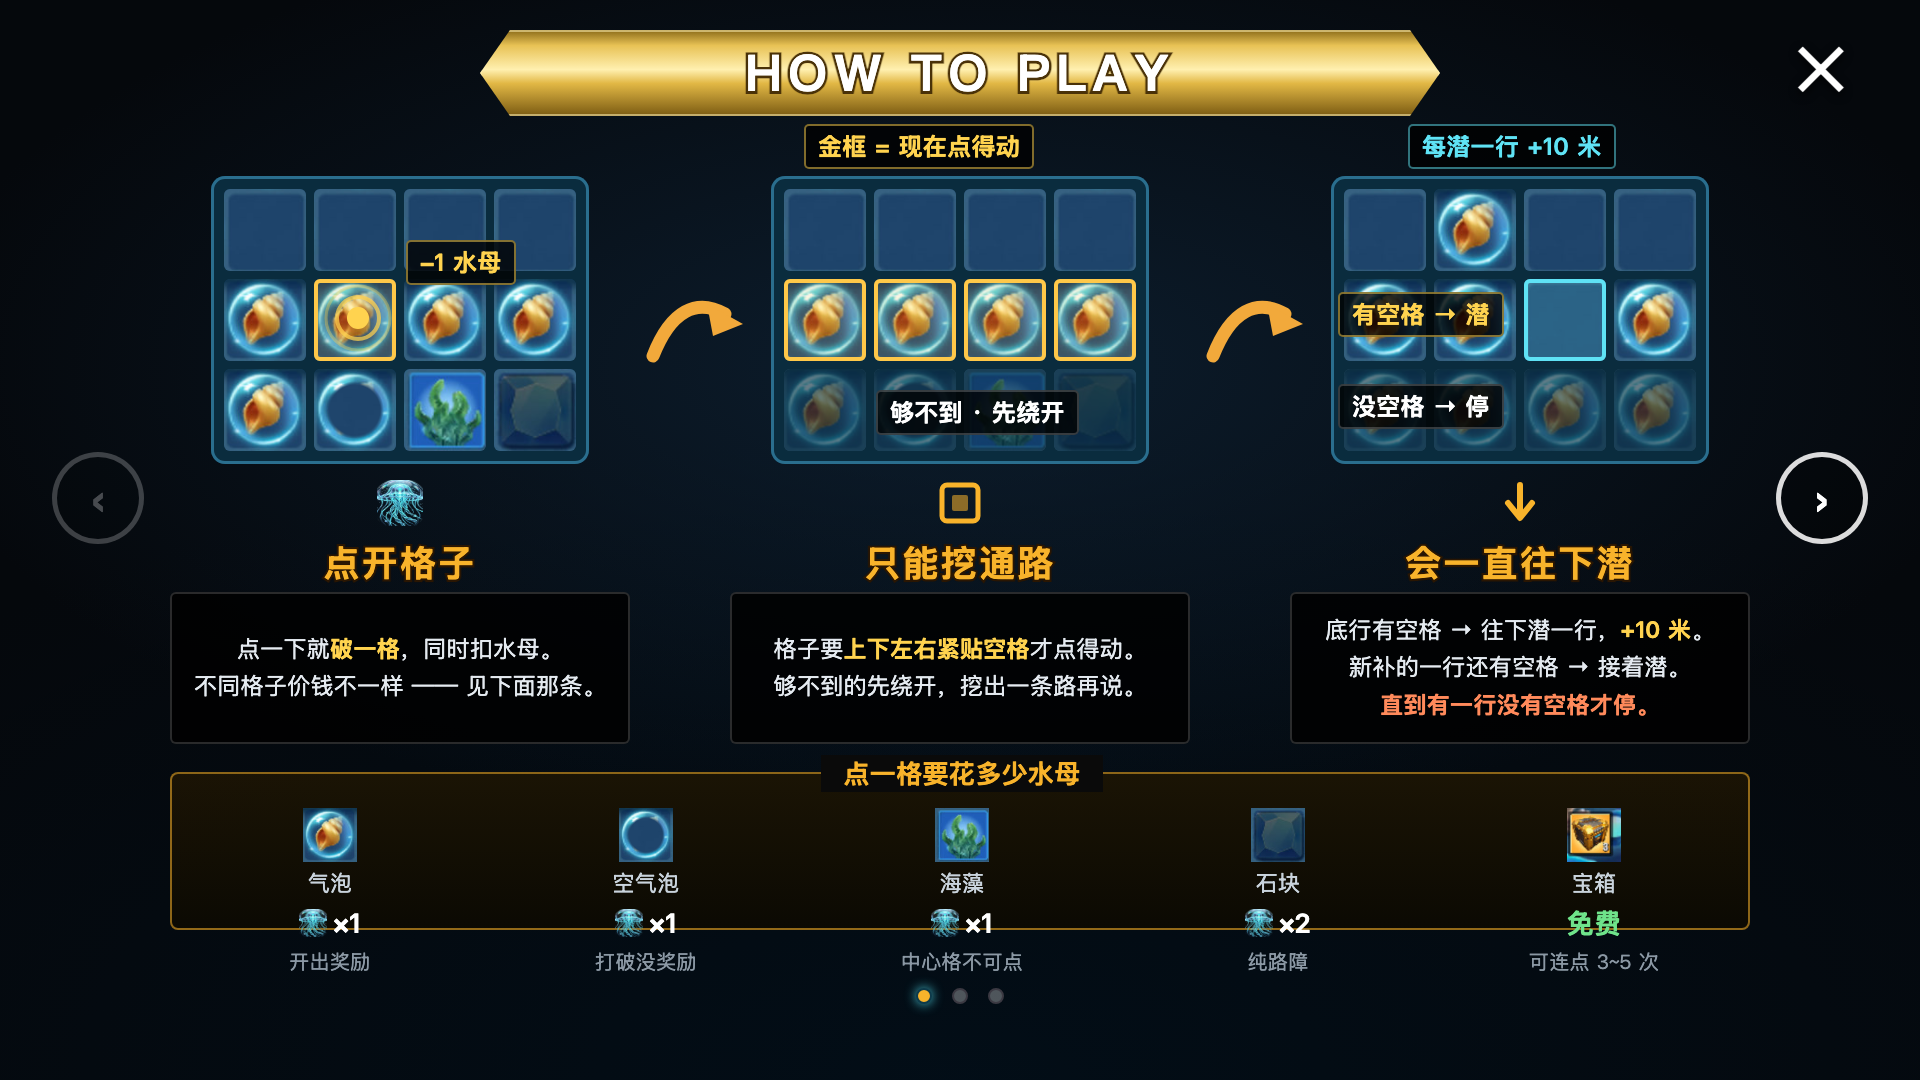
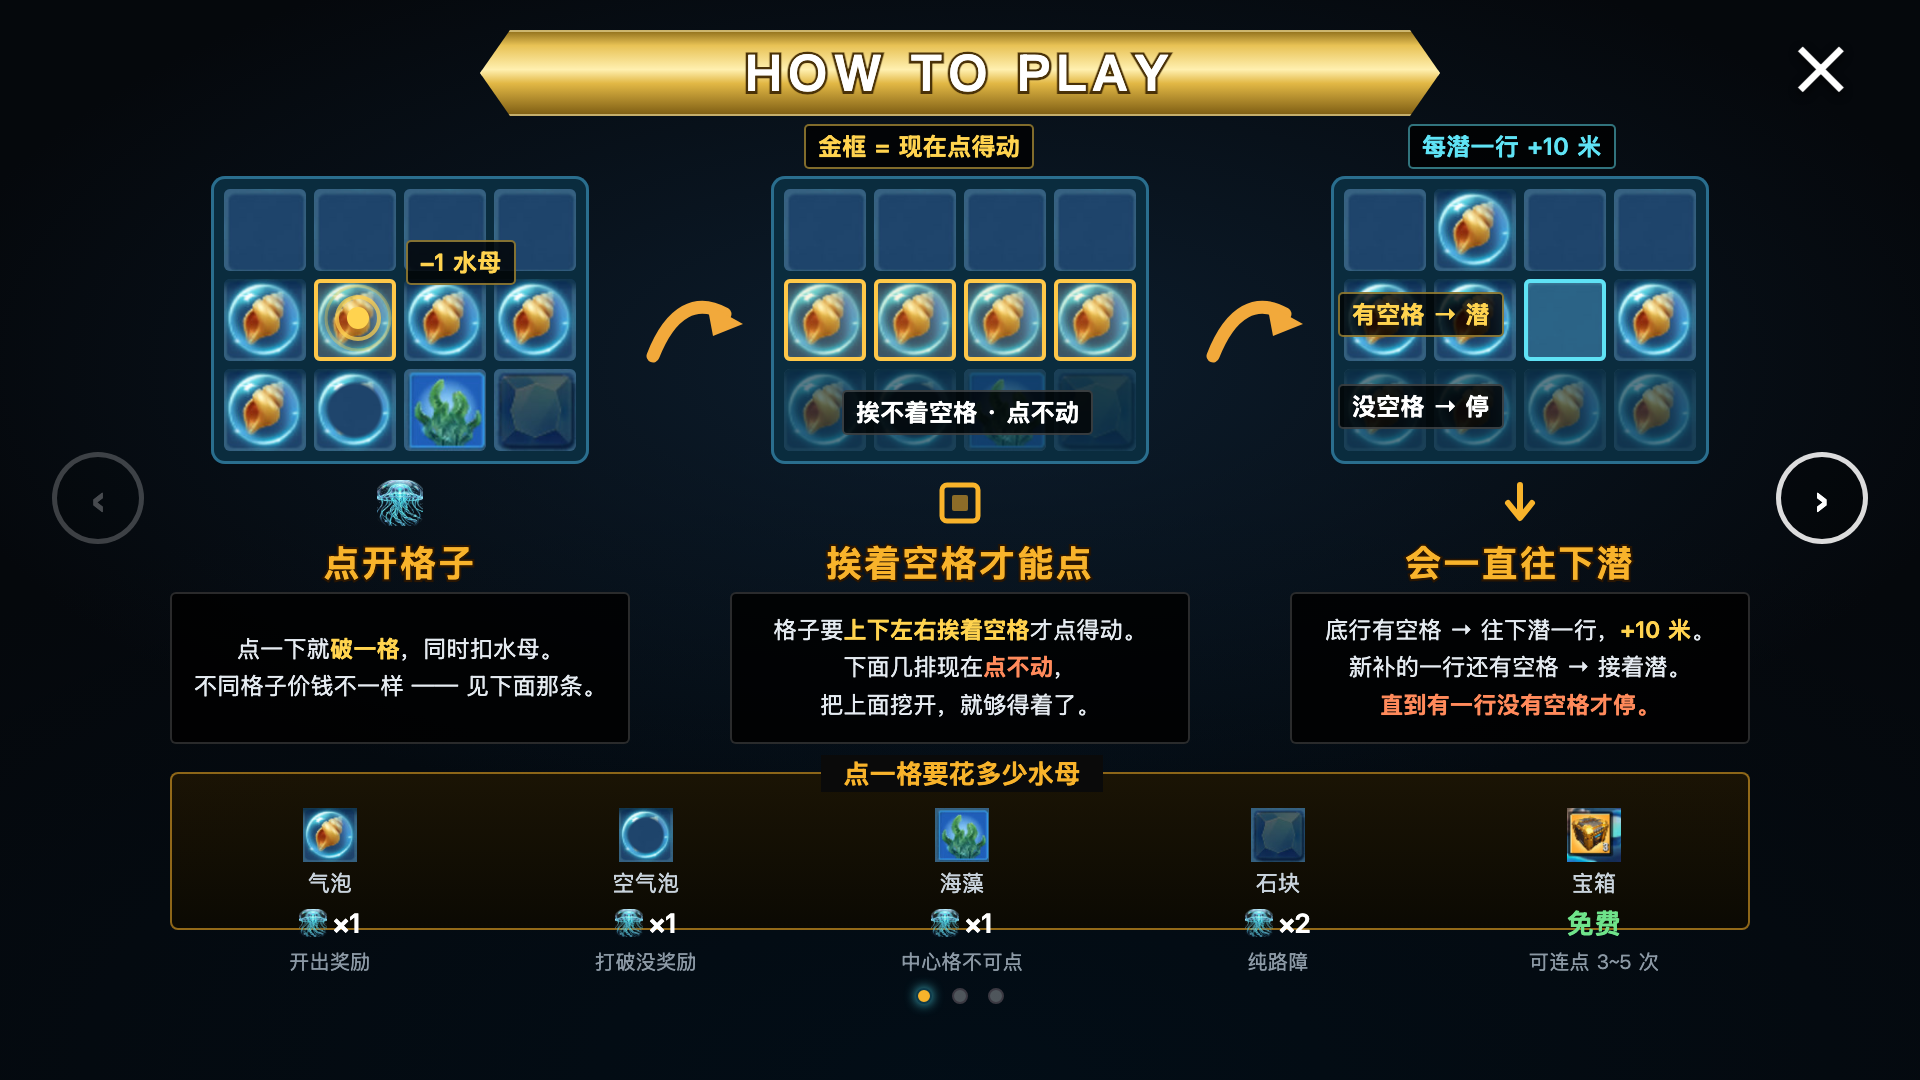
ux: ①页「够不到先绕开」改成说人话（用户看不懂那句）
- 第二联标题 只能挖通路 → 挨着空格才能点；置灰行浮标 够不到·先绕开 → 挨不着空格·点不动
- 文案改成因果+解法：格子要上下左右挨着空格才点得动 / 下面几排现在点不动 / 把上面挖开就够得着了
- 标注层记一条：文案别用「通路 / 绕开」这类行话

Changed region(s): [[0.4062, 0.4889, 0.5938, 0.6722], [0.4375, 0.3361, 0.5938, 0.4278]]

diff --git a/docs/treasure_dive_design/ux/intro3.bundle.html b/docs/treasure_dive_design/ux/intro3.bundle.html
@@ -487,7 +487,7 @@ const CELL_ART = {
   t: A + 'td/UI_奖_宝箱.png'
 };
 const PAGES = ['怎么下潜', '道具怎么用', '海螺换奖 + 深度奖励'];
-const SUBCAP = ['点击 → 通路 → 下潜 10 米', '炸弹 13 格 / 手电整列 / 落点限制', '海螺来源 / 兑换商店 / 深度奖励'];
+const SUBCAP = ['点一格花多少 → 什么能点 → 怎么下潜', '炸弹 13 格 / 手电整列 / 落点限制', '海螺来源 / 兑换商店 / 深度奖励'];
 
 /* ---------------------------------------------------------------- 小工具 */
 const el = (h) => { const d = document.createElement('div'); d.innerHTML = h.trim(); return d.firstElementChild; };
@@ -558,10 +558,10 @@ const P1_SHOTS = [
   { rows: ['eeee', 'bbbb', 'bxsr'],
     mark: (r, c) => (r === 1 ? 'pick' : r === 2 ? 'nogo' : ''),
     deco: `<div class="htp-tag gold" style="left:74px;top:-52px">金框 = 现在点得动</div>
-           <div class="htp-tag" style="left:146px;top:214px">够不到 · 先绕开</div>`,
+           <div class="htp-tag" style="left:112px;top:214px">挨不着空格 · 点不动</div>`,
     icon: () => SVG_FRAME,
-    tt: '只能挖通路',
-    desc: '格子要<b>上下左右紧贴空格</b>才点得动。<br>够不到的先绕开，挖出一条路再说。' },
+    tt: '挨着空格才能点',
+    desc: '格子要<b>上下左右挨着空格</b>才点得动。<br>下面几排现在<em>点不动</em>，<br>把上面挖开，就够得着了。' },
 
   /* 下潜口径按案子「下潜示意」：有空格就潜，**直到某一行没有空格才停**（32 行只是服务端保险丝，不进玩家文案） */
   { rows: ['ebee', 'bbeb', 'bbbb'],
@@ -847,7 +847,8 @@ const NOTES = [
   { h: '①页「怎么下潜」— 交互与判定',
     li: ['<b>触发时机</b>：活动首次进入自动弹出，一期只弹一次（客户端本地标记）；之后点界面左下角 <b>ⓘ</b> 重新打开',
          '<b>版式</b>：整屏 1920×1080 黑底 + 金色 HOW TO PLAY 横幅、左右圆钮翻页、底部页码点；三页同一个壳，只换中间三联分镜',
-         '<b>可挖判定</b>：仅「上下左右紧贴空格」的格子可点 —— 教学图必须画出这条通路，否则玩家会以为随便点',
+         '<b>可挖判定</b>：仅「上下左右挨着空格」的格子可点 —— 教学图必须画出「够得着 / 够不着」的对比，否则玩家会以为随便点',
+         '<em>⚠ 文案别用「通路 / 绕开」</em>（0909 用户实测看不懂）：说人话 = 「挨不着空格就点不动，把上面挖开就够得着了」',
          '<b>下潜判定</b>：<b>最下一行出现空格</b>即下潜一行（+10 米），新补的一行若又含空格就继续 —— <b>玩家侧口径 = 「一直潜到某一行没有空格才停」</b>（照案子的「下潜示意」写，别说成「挖穿一行才下潜」）',
          '<span class="cfg">单次最多连潜 32 行（服务端 MaxDivePerAction 保险丝）—— 是兜底不是规则，不进玩家文案</span>',
          '<b>深度口径</b>：depth = 顶行行号 × 10，客户端自乘、服务端不落库；深度只增不减',

diff --git a/docs/treasure_dive_design/ux/intro3.preview.html b/docs/treasure_dive_design/ux/intro3.preview.html
@@ -487,7 +487,7 @@ const CELL_ART = {
   t: A + 'td/UI_奖_宝箱.png'
 };
 const PAGES = ['怎么下潜', '道具怎么用', '海螺换奖 + 深度奖励'];
-const SUBCAP = ['点击 → 通路 → 下潜 10 米', '炸弹 13 格 / 手电整列 / 落点限制', '海螺来源 / 兑换商店 / 深度奖励'];
+const SUBCAP = ['点一格花多少 → 什么能点 → 怎么下潜', '炸弹 13 格 / 手电整列 / 落点限制', '海螺来源 / 兑换商店 / 深度奖励'];
 
 /* ---------------------------------------------------------------- 小工具 */
 const el = (h) => { const d = document.createElement('div'); d.innerHTML = h.trim(); return d.firstElementChild; };
@@ -558,10 +558,10 @@ const P1_SHOTS = [
   { rows: ['eeee', 'bbbb', 'bxsr'],
     mark: (r, c) => (r === 1 ? 'pick' : r === 2 ? 'nogo' : ''),
     deco: `<div class="htp-tag gold" style="left:74px;top:-52px">金框 = 现在点得动</div>
-           <div class="htp-tag" style="left:146px;top:214px">够不到 · 先绕开</div>`,
+           <div class="htp-tag" style="left:112px;top:214px">挨不着空格 · 点不动</div>`,
     icon: () => SVG_FRAME,
-    tt: '只能挖通路',
-    desc: '格子要<b>上下左右紧贴空格</b>才点得动。<br>够不到的先绕开，挖出一条路再说。' },
+    tt: '挨着空格才能点',
+    desc: '格子要<b>上下左右挨着空格</b>才点得动。<br>下面几排现在<em>点不动</em>，<br>把上面挖开，就够得着了。' },
 
   /* 下潜口径按案子「下潜示意」：有空格就潜，**直到某一行没有空格才停**（32 行只是服务端保险丝，不进玩家文案） */
   { rows: ['ebee', 'bbeb', 'bbbb'],
@@ -847,7 +847,8 @@ const NOTES = [
   { h: '①页「怎么下潜」— 交互与判定',
     li: ['<b>触发时机</b>：活动首次进入自动弹出，一期只弹一次（客户端本地标记）；之后点界面左下角 <b>ⓘ</b> 重新打开',
          '<b>版式</b>：整屏 1920×1080 黑底 + 金色 HOW TO PLAY 横幅、左右圆钮翻页、底部页码点；三页同一个壳，只换中间三联分镜',
-         '<b>可挖判定</b>：仅「上下左右紧贴空格」的格子可点 —— 教学图必须画出这条通路，否则玩家会以为随便点',
+         '<b>可挖判定</b>：仅「上下左右挨着空格」的格子可点 —— 教学图必须画出「够得着 / 够不着」的对比，否则玩家会以为随便点',
+         '<em>⚠ 文案别用「通路 / 绕开」</em>（0909 用户实测看不懂）：说人话 = 「挨不着空格就点不动，把上面挖开就够得着了」',
          '<b>下潜判定</b>：<b>最下一行出现空格</b>即下潜一行（+10 米），新补的一行若又含空格就继续 —— <b>玩家侧口径 = 「一直潜到某一行没有空格才停」</b>（照案子的「下潜示意」写，别说成「挖穿一行才下潜」）',
          '<span class="cfg">单次最多连潜 32 行（服务端 MaxDivePerAction 保险丝）—— 是兜底不是规则，不进玩家文案</span>',
          '<b>深度口径</b>：depth = 顶行行号 × 10，客户端自乘、服务端不落库；深度只增不减',

diff --git a/docs/treasure_dive_design/ux/intro3.js b/docs/treasure_dive_design/ux/intro3.js
@@ -46,7 +46,7 @@ const CELL_ART = {
   t: A + 'td/UI_奖_宝箱.png'
 };
 const PAGES = ['怎么下潜', '道具怎么用', '海螺换奖 + 深度奖励'];
-const SUBCAP = ['点击 → 通路 → 下潜 10 米', '炸弹 13 格 / 手电整列 / 落点限制', '海螺来源 / 兑换商店 / 深度奖励'];
+const SUBCAP = ['点一格花多少 → 什么能点 → 怎么下潜', '炸弹 13 格 / 手电整列 / 落点限制', '海螺来源 / 兑换商店 / 深度奖励'];
 
 /* ---------------------------------------------------------------- 小工具 */
 const el = (h) => { const d = document.createElement('div'); d.innerHTML = h.trim(); return d.firstElementChild; };
@@ -117,10 +117,10 @@ const P1_SHOTS = [
   { rows: ['eeee', 'bbbb', 'bxsr'],
     mark: (r, c) => (r === 1 ? 'pick' : r === 2 ? 'nogo' : ''),
     deco: `<div class="htp-tag gold" style="left:74px;top:-52px">金框 = 现在点得动</div>
-           <div class="htp-tag" style="left:146px;top:214px">够不到 · 先绕开</div>`,
+           <div class="htp-tag" style="left:112px;top:214px">挨不着空格 · 点不动</div>`,
     icon: () => SVG_FRAME,
-    tt: '只能挖通路',
-    desc: '格子要<b>上下左右紧贴空格</b>才点得动。<br>够不到的先绕开，挖出一条路再说。' },
+    tt: '挨着空格才能点',
+    desc: '格子要<b>上下左右挨着空格</b>才点得动。<br>下面几排现在<em>点不动</em>，<br>把上面挖开，就够得着了。' },
 
   /* 下潜口径按案子「下潜示意」：有空格就潜，**直到某一行没有空格才停**（32 行只是服务端保险丝，不进玩家文案） */
   { rows: ['ebee', 'bbeb', 'bbbb'],
@@ -406,7 +406,8 @@ const NOTES = [
   { h: '①页「怎么下潜」— 交互与判定',
     li: ['<b>触发时机</b>：活动首次进入自动弹出，一期只弹一次（客户端本地标记）；之后点界面左下角 <b>ⓘ</b> 重新打开',
          '<b>版式</b>：整屏 1920×1080 黑底 + 金色 HOW TO PLAY 横幅、左右圆钮翻页、底部页码点；三页同一个壳，只换中间三联分镜',
-         '<b>可挖判定</b>：仅「上下左右紧贴空格」的格子可点 —— 教学图必须画出这条通路，否则玩家会以为随便点',
+         '<b>可挖判定</b>：仅「上下左右挨着空格」的格子可点 —— 教学图必须画出「够得着 / 够不着」的对比，否则玩家会以为随便点',
+         '<em>⚠ 文案别用「通路 / 绕开」</em>（0909 用户实测看不懂）：说人话 = 「挨不着空格就点不动，把上面挖开就够得着了」',
          '<b>下潜判定</b>：<b>最下一行出现空格</b>即下潜一行（+10 米），新补的一行若又含空格就继续 —— <b>玩家侧口径 = 「一直潜到某一行没有空格才停」</b>（照案子的「下潜示意」写，别说成「挖穿一行才下潜」）',
          '<span class="cfg">单次最多连潜 32 行（服务端 MaxDivePerAction 保险丝）—— 是兜底不是规则，不进玩家文案</span>',
          '<b>深度口径</b>：depth = 顶行行号 × 10，客户端自乘、服务端不落库；深度只增不减',

diff --git a/docs/treasure_dive_design/ux/README.md b/docs/treasure_dive_design/ux/README.md
@@ -33,7 +33,7 @@ https://github.com/MarinL21/mrl-game-config-tools/blob/main/docs/treasure_dive_d
 
 | 页 | 三联 | 底部横条 |
 |---|---|---|
-| ① 怎么下潜 | 点开格子 → 只能挖通路 → 会一直往下潜 | 5 类格子各花多少水母 |
+| ① 怎么下潜 | 点开格子 → 挨着空格才能点 → 会一直往下潜 | 5 类格子各花多少水母 |
 | ② 道具怎么用 | 炸弹炸 13 格 → 手电通吃整列 → 只能放空格或海藻 | 金框 / 红框图例 + 道具来源 |
 | ③ 海螺换奖 + 深度奖励 | 海螺从哪来 → 拿海螺换奖 → 潜得越深奖越大 | 深度玩法的四条功能口径 |
 
@@ -46,7 +46,7 @@ https://github.com/MarinL21/mrl-game-config-tools/blob/main/docs/treasure_dive_d
 ## 下潜口径（0909 按案子「下潜示意」纠过一次）
 
 **底行有空格 → 往下潜一行（+10 米）；新补的一行还有空格 → 接着潜；直到有一行没有空格才停。**
-⛔ 别写成「挖穿一行才下潜」—— 停止条件是「某一行没有空格」，这才是案子里的口径。
+⛔ 别写成「挖穿一行才下潜」；可点条件也别用「通路 / 绕开」这种行话（用户看不懂），说「挨着空格才能点，挖开上面就够得着」—— 停止条件是「某一行没有空格」，这才是案子里的口径。
 单次最多连潜 32 行是服务端 `MaxDivePerAction` 保险丝，兜底用的，不进玩家文案。
 
 ## 口径来源
